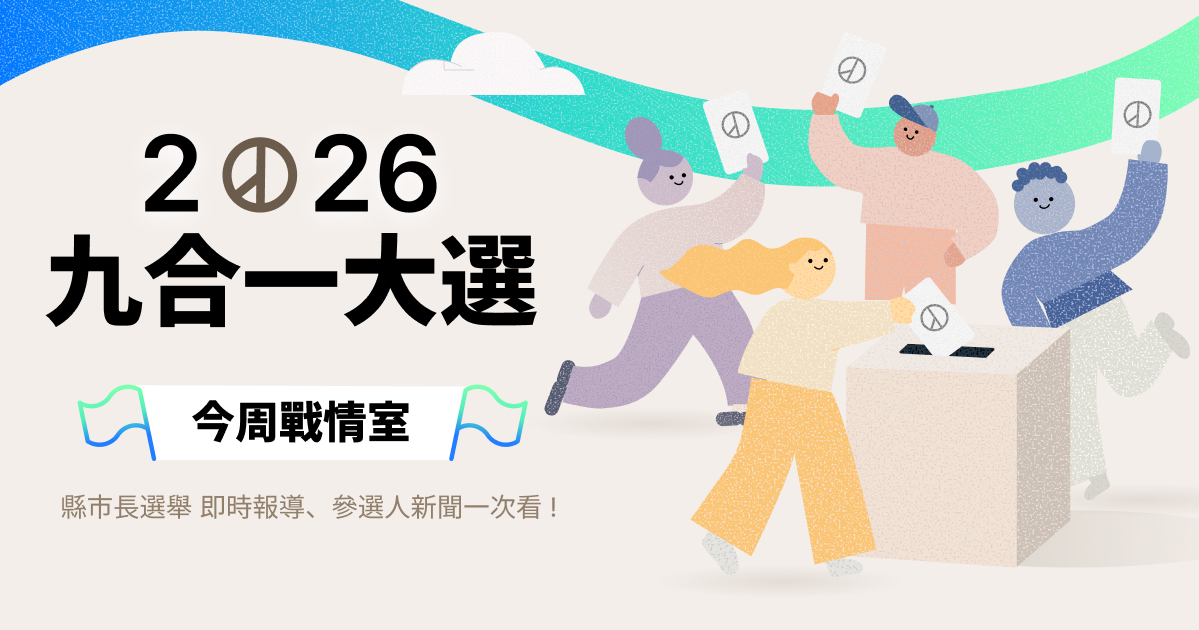
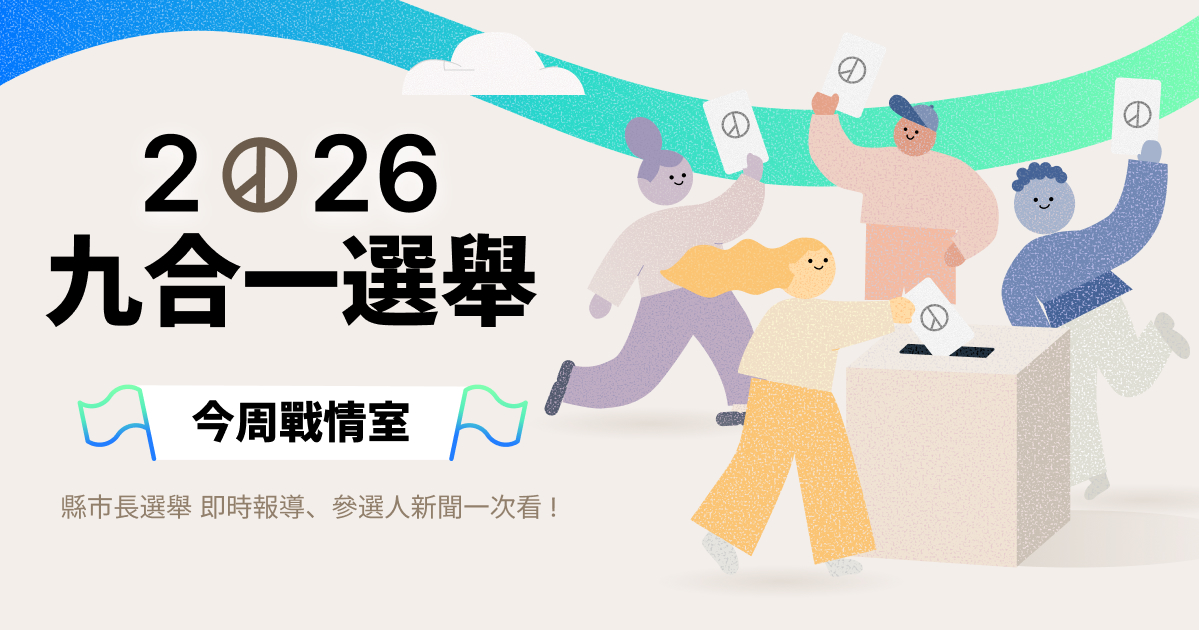
修改標題

Changed region(s): [[0.2777, 0.3619, 0.4629, 0.5429]]

diff --git a/src/utils/schedule.js b/src/utils/schedule.js
@@ -10,7 +10,7 @@
 // (navNo 1 has no live-streaming/vote/referendum/elected-search links at
 // all; navNo 2 links to live-streaming instead of elected-search; navNo 3
 // links to elected-search instead of live-streaming).
-export const SCHEDULE_START = '2026-11-18T14:00:00+08:00';
+export const SCHEDULE_START = '2026-11-28T16:00:00+08:00';
 
 // 本屆選舉年份：SCHEDULE_START 前各資料區塊隱藏此年份，之後顯示
 // （API 尚無該年資料時內容為「尚未開票」）。

diff --git a/src/components/Kv.vue b/src/components/Kv.vue
@@ -41,7 +41,7 @@
     <div class="kv-left-wrapper">
       <div class="kv-left">
         <img :src="kvCloud" alt="" class="kv-cloud" aria-hidden="true" />
-        <img :src="kvTitle" alt="2026 九合一大選" class="kv-title" />
+        <img :src="kvTitle" alt="2026 九合一選舉" class="kv-title" />
         <img :src="kvSubtitle1" alt="今周戰情室" class="kv-subtitle1" />
         <p class="kv-subtitle2">縣市長選舉 即時報導、參選人新聞一次看！</p>
 

diff --git a/src/components/Header.vue b/src/components/Header.vue
@@ -7,7 +7,7 @@
         </a>
         <div class="logo-divider"></div>
         <a :href="getLocalHref('#kv')" class="logo-link" @click="scrollToSection($event, 'kv')">
-          <img :src="electionLogo" alt="2026九合一大選" class="logo-election" />
+          <img :src="electionLogo" alt="2026九合一選舉" class="logo-election" />
         </a>
       </div>
 
